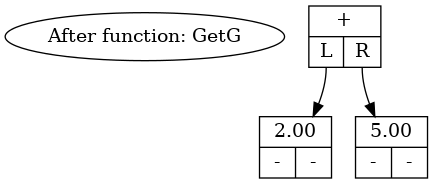
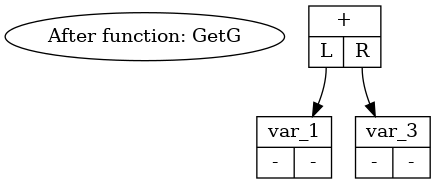
Made program to read variables

diff --git a/Front-end/src/Language_Tree_Func.cpp b/Front-end/src/Language_Tree_Func.cpp
@@ -58,23 +58,18 @@ Node* GetP(TokensArray* tokens_array)
         CHECK_NODE(e_node);
         Require(tokens_array, ')');
         return e_node;
+    } else if ((*tokens_array->ptr)->type == VAR) {
+        Node *id_node = GetId(tokens_array);
+        CHECK_NODE(id_node);
+        return id_node;
     }
-//    else if (isalpha(*s)) {
-//        Node *id_node = GetId();
-//        CHECK_NODE(id_node);
-//        return id_node;
-//    } else if (isalpha(*s) && *s != 'x') {
-//        Node *func_node = GetFunc();
-//        CHECK_NODE(func_node);
-//        return func_node;
-//    }
     else {
         Node* n_node = GetN(tokens_array);
         CHECK_NODE(n_node);
         return n_node;
     }
 }
-//
+
 //Node* GetFunc(TokensArray* tokens_array)
 //{
 //    char func_name[MAX_FUNC_LEN] = "";
@@ -119,20 +114,18 @@ Node* GetN(TokensArray* tokens_array)
     return n_node;
 }
 
-//Node* GetId(TokensArray* tokens_array)
-//{
-//    char var = 'x';
-//
-//    if (*s != 'x') {
-//        SyntaxError(__FUNCTION__, "You can only use the \"x\" variable "
-//                                  "(извините, но таковы правила)");
-//        return nullptr;
-//    }
-//    else {
-//        s++;
-//        return CreateNode(VAR, &var, nullptr, nullptr);
-//    }
-//}
+Node* GetId(TokensArray* tokens_array)
+{
+    if((*tokens_array->ptr)->type != VAR){
+        SyntaxError(__FUNCTION__, "You forgot the variable somewhere");
+        return nullptr;
+    }
+
+    Node* n_node = *tokens_array->ptr;
+    tokens_array->ptr++;
+
+    return n_node;
+}
 
 Node* CopyNode(Node* node)
 {
@@ -141,7 +134,7 @@ Node* CopyNode(Node* node)
 
     if (node->type == NUM || node->type == OP || node->type == VAR) {
         new_node->data = node->data;
-    } else if (node->type == FUNC) {
+    } else if (node->type == VAR) {
         new_node->data.str = (char*) calloc(MAX_FUNC_LEN, sizeof(char));
         strcpy(new_node->data.str, node->data.str);
     }
@@ -169,7 +162,7 @@ int FreeChildNodes(Node* node)
 
 int TreeDtor(Node* node)
 {
-    if (node->type == FUNC)
+    if (node->type == VAR)
         free(node->data.str);
 
     if (node->left != nullptr && node->right != nullptr) {

diff --git a/Front-end/src/Language_Lexical_Analysis_Func.cpp b/Front-end/src/Language_Lexical_Analysis_Func.cpp
@@ -12,7 +12,7 @@ int LexicalAnalysis(String* string, TokensArray* tokens_array)
             *tokens_array->ptr = GetWord(string);
         } else if (*string->ptr == '+' || *string->ptr == '-' ||
                    *string->ptr == '*' || *string->ptr == '/' ||
-                   *string->ptr == '(' || *string->ptr == ')'){
+                   *string->ptr == '(' || *string->ptr == ')') {
             *tokens_array->ptr = GetCharacter(string);
         } else if (*string->ptr == '\0') {
             *tokens_array->ptr = GetCharacter(string);
@@ -56,12 +56,16 @@ Node* GetWord(String* string)
 
     data.str = (char*) calloc(MAX_WORD_LEN, sizeof(char));
 
-    for (; isalpha(*string->ptr); len++, string->ptr++)
+    for (; isalpha(*string->ptr) || isdigit(*string->ptr) || *string->ptr == '_';
+        len++, string->ptr++) {
         data.str[len] = *string->ptr;
+        if (len >= 128)
+            SyntaxError(__FUNCTION__, "Too long word");
+    }
 
     data.str[len] = '\0';
 
-    return CreateNode(FUNC, data, nullptr, nullptr);
+    return CreateNode(VAR, data, nullptr, nullptr);
 }
 
 Node* GetCharacter(String* string)
@@ -79,12 +83,7 @@ Node* CreateNode(int type, data_t data, Node* left, Node* right)
     Node* new_node = (Node*)calloc(1, sizeof(Node));
     new_node->type = type;
 
-    if (type == FUNC) {
-        new_node->data.str = (char*) calloc(MAX_FUNC_LEN, sizeof(char));
-        strcpy(new_node->data.str, data.str);
-    } else {
-        new_node->data = data;
-    }
+    new_node->data = data;
 
     new_node->left = left;
     new_node->right = right;

diff --git a/Front-end/src/Language_Main.cpp b/Front-end/src/Language_Main.cpp
@@ -17,7 +17,7 @@ int main()
                 printf("tokens: data: %f | type: %d\n",
                        (*tokens_array.ptr[i]).data.num, (*tokens_array.ptr[i]).type);
                 break;
-            case FUNC:
+            case VAR:
                 printf("tokens: data: %s | type: %d\n",
                        (*tokens_array.ptr[i]).data.str, (*tokens_array.ptr[i]).type);
                 break;
